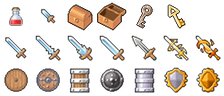
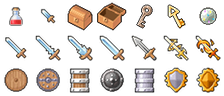
Added pearl/orb with changing music

Changed region(s): [[0.875, 0.0625, 0.9688, 0.2812]]

diff --git a/main.js b/main.js
@@ -15,8 +15,11 @@ var P_UP = 3;     /* These are the directions for the player */
 var P_DOWN = 0;
 var P_LEFT = 1;
 var P_RIGHT = 2;
-var CHEST_CLOSED = 2;   /* Frame numbers for closed/open chests */
+var CHEST_CLOSED = 2;   /* Frame numbers for items and chests */
 var CHEST_OPEN = 3;
+var POTION = 0;
+var KEY = 4
+var ORB = 6;
 var ENEMIES = 3   /* Index of the EnemyGroup child in the scene */
 
 /* These variables keep track of the current room's info. These are updated
@@ -74,11 +77,17 @@ Hud = Class.create(Group, {
       this.shield.x = 200;
       this.shield.y = game.height - GRID*2 + 10;
       
+      this.orb = new Sprite(GRID, GRID);
+      this.orb.image = game.assets["assets/images/items.png"];
+      this.orb.frame = -1;
+      this.orb.x = 285;
+      this.orb.y = game.height - GRID*2 + 10;
+      
       this.addChild(this.bg);
       this.addChild(this.stats1);
       this.addChild(this.weapon);
       this.addChild(this.shield);
-//       this.addChild(this.stats2);
+      this.addChild(this.orb);
       this.addChild(this.attack);
       this.addChild(this.defense);
    },
@@ -92,7 +101,8 @@ Hud = Class.create(Group, {
       this.shield.frame = player.shield;  
       this.attack.text = "Str: " + player.strength;
       this.defense.text = "Def: " + player.defense;
-
+      if (player.hasOrb)
+         this.orb.frame = ORB;
    }
 });
 
@@ -128,7 +138,11 @@ Player = Class.create(Sprite, {
       this.health = 100;
       this.maxHealth = 100;
       this.numPotions = 0;
-      this.numKeys = 1;
+      this.numKeys = 100;
+      
+      /* Variable to keep track if the player is holding the pearl/orb */
+      this.hasOrb = false;
+      this.seenOrb = false;
    },
    
    onenterframe: function() {
@@ -150,7 +164,7 @@ Player = Class.create(Sprite, {
       /* Check if picked up potion */
       var tileContents = map.items.checkTile(this.x, this.y);
       if (this.cooldown == 0 && game.input.swapItem && tileContents > 0 || 
-          tileContents == 0 || tileContents == 4) {
+          tileContents == POTION || tileContents == KEY || tileContents == ORB) {
          game.processPickup(tileContents);
          metrics.str = player.strength;
          metrics.def = player.defense;
@@ -178,25 +192,25 @@ Player = Class.create(Sprite, {
          if (player.direction == P_UP && map.chests.checkTile(this.x, this.y-GRID) == CHEST_CLOSED) {
             map.chests.tiles[(this.y-GRID)/GRID][this.x/GRID] = CHEST_OPEN;
             map.editCollision(this.x/GRID, (this.y-GRID)/GRID, 0);
-            map.items.tiles[(this.y-GRID)/GRID][this.x/GRID] = game.getRandomItem();
+            map.items.tiles[(this.y-GRID)/GRID][this.x/GRID] = game.getRandomItem(true);
             player.numKeys--;
          }
          else if (player.direction == P_DOWN && map.chests.checkTile(this.x, this.y+GRID) == CHEST_CLOSED) {
             map.chests.tiles[(this.y+GRID)/GRID][this.x/GRID] = CHEST_OPEN;
             map.editCollision(this.x/GRID, (this.y+GRID)/GRID, 0);
-            map.items.tiles[(this.y+GRID)/GRID][this.x/GRID] = game.getRandomItem();
+            map.items.tiles[(this.y+GRID)/GRID][this.x/GRID] = game.getRandomItem(true);
             player.numKeys--;
          }
          else if (player.direction == P_LEFT && map.chests.checkTile(this.x-GRID, this.y) == CHEST_CLOSED) {
             map.chests.tiles[this.y/GRID][(this.x-GRID)/GRID] = CHEST_OPEN;
             map.editCollision((this.x-GRID)/GRID, this.y/GRID, 0);
-            map.items.tiles[this.y/GRID][(this.x-GRID)/GRID] = game.getRandomItem();
+            map.items.tiles[this.y/GRID][(this.x-GRID)/GRID] = game.getRandomItem(true);
             player.numKeys--;
          }
          else if (player.direction == P_RIGHT && map.chests.checkTile(this.x+GRID, this.y) == CHEST_CLOSED) {
             map.chests.tiles[this.y/GRID][(this.x+GRID)/GRID] = CHEST_OPEN;
             map.editCollision((this.x+GRID)/GRID, this.y/GRID, 0);
-            map.items.tiles[this.y/GRID][(this.x+GRID)/GRID] = game.getRandomItem();
+            map.items.tiles[this.y/GRID][(this.x+GRID)/GRID] = game.getRandomItem(true);
             player.numKeys--;
          }
          
@@ -260,7 +274,7 @@ Player = Class.create(Sprite, {
             var dir = map.checkTile(this.x, this.y);
             if (dir == NORTH || dir == SOUTH || dir == EAST || dir == WEST || dir == UP || dir == DOWN)
                game.changeRoom(dir);
-            else if (dir == NEXT_LEVEL)   /* End the level */
+            else if (dir == NEXT_LEVEL && player.hasOrb)   /* End the level */
                game.endLevel(false);
          }
       } 
@@ -368,7 +382,7 @@ Room = Class.create(Map, {
             else {
                this.collision[countRow][countCol] = 0;
                if (this.tiles[countRow][countCol] == 0 && Math.floor(Math.random() * 100) == 0) {                    //***VARY***
-                  this.items.tiles[countRow][countCol] = game.getRandomItem();
+                  this.items.tiles[countRow][countCol] = game.getRandomItem(false);
                }
                else if (this.tiles[countRow][countCol] == 0 && Math.floor(Math.random() * 75) == 0 &&    //***VARY***
                         this.tiles[countRow-1][countCol] != NORTH && this.tiles[countRow+1][countCol] != SOUTH &&
@@ -727,7 +741,7 @@ Enemy = Class.create(Group, {
             if (this.sprite.opacity == 0) {
                map.editCollision(this.sprite.x/GRID, this.sprite.y/GRID, 0);
                if (Math.floor(Math.random() * 8) == 0) { // 1/8 chance of an item drop                                  //***VARY***
-                  map.items.tiles[this.sprite.y/GRID][this.sprite.x/GRID] = game.getRandomItem();
+                  map.items.tiles[this.sprite.y/GRID][this.sprite.x/GRID] = game.getRandomItem(false);
                   map.items.loadData(map.items.tiles);
                }
                this.parentNode.removeEnemy(this);
@@ -1007,7 +1021,6 @@ window.onload = function() {
          
       var randomNumber = Math.floor(Math.random() * 10000);
       console.log("AUD Seed = " + randomNumber);
-      // Good songs: 9291, 660
       aud.generatePattern(0.6, 0.3, 4, 4, randomNumber);
       aud.togglePlay();
          
@@ -1028,6 +1041,7 @@ window.onload = function() {
       else {
          game.replaceScene(curScene);
          player.direction = P_DOWN;
+         player.hasOrb = player.seenOrb = false;
       }
    }
    
@@ -1154,7 +1168,6 @@ window.onload = function() {
             if (toCheck.xRoom == nextRoom.xRoom && toCheck.yRoom == nextRoom.yRoom &&
                 toCheck.zRoom == nextRoom.zRoom+1) { /* Existing room above */
                if (toCheck.Down == true) {
-                  console.log("Existing room above, connected");
                   nextRoom.Up = sceneList[count];
                   
                   nextRoom.editTile((ROOM_WID-1)/2, (ROOM_HIG-1)/2, UP);
@@ -1181,7 +1194,6 @@ window.onload = function() {
                   toCheck.Down = nextScene;
                }
                else {
-                  console.log("Existing room above, not connected");
                   nextRoom.Up = false;
                   if (nextRoom.Down == false && nextRoom.tiles[(ROOM_HIG-1)/2][(ROOM_WID-1)/2] != NEXT_LEVEL) {
                      nextRoom.editTile((ROOM_WID-1)/2, (ROOM_HIG-1)/2, 0);
@@ -1192,7 +1204,6 @@ window.onload = function() {
             if (toCheck.xRoom == nextRoom.xRoom && toCheck.yRoom == nextRoom.yRoom &&
                 toCheck.zRoom == nextRoom.zRoom-1) { /* Existing room below */
                if (toCheck.Up == true) {
-                  console.log("Existing room below, connected");
                   nextRoom.Down = sceneList[count];
                      
                   nextRoom.editTile((ROOM_WID-1)/2, (ROOM_HIG-1)/2, DOWN);
@@ -1219,7 +1230,6 @@ window.onload = function() {
                   toCheck.Up = nextScene;
                }
                else {
-                  console.log("Existing room below, not connected");
                   nextRoom.Down = false;
                   if (nextRoom.Up == false && nextRoom.tiles[(ROOM_HIG-1)/2][(ROOM_WID-1)/2] != NEXT_LEVEL) {
                      nextRoom.editTile((ROOM_WID-1)/2, (ROOM_HIG-1)/2, 0);
@@ -1306,13 +1316,18 @@ window.onload = function() {
     *    item = frame number of the item that was picked up
     */
    game.processPickup = function(item) {
-      if (item == 0) {
+      if (item == POTION) {
          map.items.tiles[player.y/GRID][player.x/GRID] = -1;
          player.numPotions++;
       }
-      else if (item == 4) {
+      else if (item == KEY) {
          map.items.tiles[player.y/GRID][player.x/GRID] = -1;
          player.numKeys++;
+      }
+      else if (item == ORB) {
+         map.items.tiles[player.y/GRID][player.x/GRID] = -1;
+         player.hasOrb = true;
+         aud.adaptPattern(0.9, 0.7);
       }
       else if (item == 1)
          player.strength = 5;
@@ -1359,16 +1374,22 @@ window.onload = function() {
    
    /*
     * Returns the frame of a random item (change constants to vary probability)
+    * Parameters:
+    *    wantOrb = true if there is a possibility of returning the orb
     */
-   game.getRandomItem = function() {                                                                       //***VARY***
+   game.getRandomItem = function(wantOrb) {                                                                       //***VARY***
       var itemFrame;
    
       itemFrame = Math.floor(Math.random() * 14) + 7;
       itemFrame = Math.floor(itemFrame/7) * 7 + 0 + itemFrame % 2; // Change the itemFrame % # for a different range
-      if (Math.random() < 0.4)
-         itemFrame = 4;
+      if (wantOrb && !player.seenOrb && Math.random() < sceneList.length/minRooms) {
+         itemFrame = ORB;
+         player.seenOrb = true;
+      }
+      else if (Math.random() < 0.4)
+         itemFrame = KEY;
       else
-         itemFrame = Math.random() < 0.5 ? itemFrame : 0;
+         itemFrame = Math.random() < 0.4 ? itemFrame : POTION;
       return itemFrame;
    },
    
@@ -1398,7 +1419,8 @@ window.onload = function() {
     *    died = True if the level was ended by the player dying.
     */
    game.endLevel = function(died) {
-      aud.togglePause();
+      if (aud.isPlaying()) 
+         aud.togglePause();
    
       metrics.calculateAverages();
       metrics.printMetrics();
@@ -1407,13 +1429,10 @@ window.onload = function() {
       results.backgroundColor = "black"
       
       var title;
-      if (died) {
+      if (died)
          title = createLabel("GAME OVER", 130, 10, "16px sans-serif");
-      }
-      else {
+      else
          title = createLabel("LEVEL COMPLETE", 100, 10, "16px sans-serif");
-      }
-      
       
       var metricLabel = createLabel("Strength: " + metrics.str + "<br>" +
                                     "Strength change: " + (metrics.str-metrics.strAtStart) + "<br>" +
